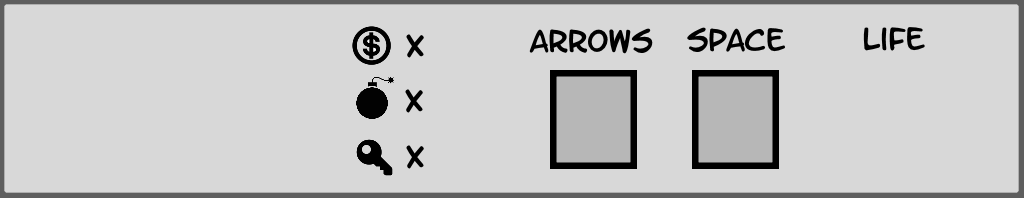
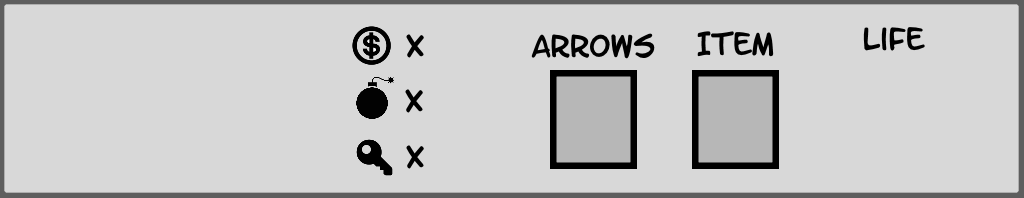
Add files via upload

Changed region(s): [[0.5, 0.1212, 0.7812, 0.303]]

diff --git a/thingsthatmove/Player.java b/thingsthatmove/Player.java
@@ -207,6 +207,13 @@ public class Player extends MoveableObject
 	{
 		return currentItem.getName();
 	}
+	
+	public boolean hasItem ()
+	{
+		if (currentItem != null)
+			return true;
+		return false;
+	}
 
 	/**
 	 * Sets the players current item to the given item or null if there is no item
@@ -260,6 +267,22 @@ public class Player extends MoveableObject
 		return movingWest;
 	}
 
+	public void updateProjectiles ()
+	{
+		// Update projectiles
+		int removedProjectiles = 0;
+		for (int i = 0; i < currentProjectiles.size(); ++i)
+		{
+			Projectile p = currentProjectiles.get(i - removedProjectiles);
+			p.update();
+			if (p.isDeadProjectile())
+			{
+				currentProjectiles.remove(i - removedProjectiles);
+				++removedProjectiles;
+			}
+		}
+	}
+	
 	public void update(ArrayList<GameObject> rocks)
 	{
 		if (movingNorth && !collidesWithRocks(rocks))
@@ -295,18 +318,7 @@ public class Player extends MoveableObject
 			}
 		}
 
-		// Update projectiles
-		int removedProjectiles = 0;
-		for (int i = 0; i < currentProjectiles.size(); ++i)
-		{
-			Projectile p = currentProjectiles.get(i - removedProjectiles);
-			p.update();
-			if (p.isDeadProjectile())
-			{
-				currentProjectiles.remove(i - removedProjectiles);
-				++removedProjectiles;
-			}
-		}
+
 
 		if (isShooting)
 		{
@@ -396,6 +408,10 @@ public class Player extends MoveableObject
 			else
 				g.drawImage(emptyHeart, 820 + 30 * n, 70, null);
 		}
+		
+		// Draw the item in the HUD
+		if (hasItem())
+			g.drawImage(currentItem.getImage(), 720, 80, null);
 
 		// Draw all projectiles currently on the screen
 		for (Projectile p : currentProjectiles)

diff --git a/thingsthatmove/EnemyStudentCluster.java b/thingsthatmove/EnemyStudentCluster.java
@@ -13,6 +13,6 @@ public class EnemyStudentCluster extends Enemy
 	public EnemyStudentCluster () throws IOException
 	{
 		super (new Enemy(1, 2, 200, 400, 400, ImageIO.read(LevelManager.class.getResourceAsStream("/images/enemies/studentclusterfront.png")),
-                new Dimension(119, 80), 2, true, false, new Dimension(60, 15), 28, 118));
+                new Dimension(90, 47), 2, true, false, new Dimension(46, 10), 20, 88));
 	}
 }

diff --git a/thingsthatmove/EnemyTextbook.java b/thingsthatmove/EnemyTextbook.java
@@ -13,6 +13,6 @@ public class EnemyTextbook extends Enemy
 	public EnemyTextbook () throws IOException
 	{
 		super (new Enemy(1, 2, 200, 400, 400, ImageIO.read(LevelManager.class.getResourceAsStream("/images/enemies/textbookfront.png")),
-                new Dimension(75, 43), 2, true, false, new Dimension(50, 55), 13, 110));
+                new Dimension(65, 47), 2, true, false, new Dimension(48, 10), 9, 84));
 	}
 }

diff --git a/thingsthatmove/EnemyEinstein.java b/thingsthatmove/EnemyEinstein.java
@@ -13,6 +13,6 @@ public class EnemyEinstein extends Enemy
 	public EnemyEinstein () throws IOException
 	{
 		super (new Enemy(1, 2, 200, 400, 400, ImageIO.read(LevelManager.class.getResourceAsStream("/images/enemies/einsteinfront.png")),
-                new Dimension(135, 85), 2, true, true, new Dimension(60, 15), 36, 116));
+                new Dimension(72, 34), 2, true, true, new Dimension(33, 7), 18, 63));
 	}
 }

diff --git a/thingsthatmove/EnemyMolecule.java b/thingsthatmove/EnemyMolecule.java
@@ -13,6 +13,6 @@ public class EnemyMolecule extends Enemy
 	public EnemyMolecule () throws IOException
 	{
 		super (new Enemy(1, 2, 200, 400, 400, ImageIO.read(LevelManager.class.getResourceAsStream("/images/enemies/moleculefront.png")),
-                new Dimension(94, 80), 2, true, false, new Dimension(60, 15), 16, 92));
+                new Dimension(67, 36), 2, true, false, new Dimension(43, 9), 11, 65));
 	}
 }

diff --git a/thingsthatmove/EnemyEclipse.java b/thingsthatmove/EnemyEclipse.java
@@ -13,6 +13,6 @@ public class EnemyEclipse extends Enemy
 	public EnemyEclipse () throws IOException
 	{
 		super (new Enemy(1, 2, 200, 400, 400, ImageIO.read(LevelManager.class.getResourceAsStream("/images/enemies/eclipsefront.png")),
-                new Dimension(77, 55), 2, true, false,  new Dimension(60, 15), 10, 77));
+                new Dimension(64, 35), 2, true, false,  new Dimension(43, 9), 7, 63));
 	}
 }

diff --git a/thingsthatmove/EnemyStudent.java b/thingsthatmove/EnemyStudent.java
@@ -13,6 +13,6 @@ public class EnemyStudent extends Enemy
 	public EnemyStudent () throws IOException
 	{
 		super (new Enemy(1, 2, 200, 400, 400, ImageIO.read(LevelManager.class.getResourceAsStream("/images/enemies/studentfront.png")),
-                new Dimension(77, 65), 2, true, false, new Dimension(60, 15), 10, 85));
+                new Dimension(60, 37), 2, true, false, new Dimension(49, 10), 7, 67));
 	}
 }

diff --git a/thingsthatmove/EnemyChem.java b/thingsthatmove/EnemyChem.java
@@ -13,6 +13,6 @@ public class EnemyChem extends Enemy
 	public EnemyChem () throws IOException
 	{
 		super (new Enemy(1, 2, 200, 400, 400, ImageIO.read(LevelManager.class.getResourceAsStream("/images/enemies/chemfront.png")),
-                new Dimension(72, 75), 2, true, false, new Dimension(60, 15), 5, 98));
+                new Dimension(57, 43), 2, true, false, new Dimension(48, 10), 3, 78));
 	}
 }

diff --git a/thingsthatmove/EnemyCell.java b/thingsthatmove/EnemyCell.java
@@ -12,6 +12,6 @@ public class EnemyCell extends Enemy
 	public EnemyCell () throws IOException
 	{
 		super (new Enemy(1, 2, 200, 400, 400, ImageIO.read(LevelManager.class.getResourceAsStream("/images/enemies/cellfront.png")),
-                new Dimension(79, 70), 2, true, true, new Dimension(60, 15), 10, 78));
+                new Dimension(67, 38), 2, true, true, new Dimension(51, 11), 7, 67));
 	}
 }

diff --git a/thingsthatmove/EnemyPi.java b/thingsthatmove/EnemyPi.java
@@ -13,6 +13,6 @@ public class EnemyPi extends Enemy
 	public EnemyPi () throws IOException
 	{
 		super (new Enemy(1, 2, 200, 400, 400, ImageIO.read(LevelManager.class.getResourceAsStream("/images/enemies/pifront.png")),
-                new Dimension(75, 43), 2, true, false, new Dimension(50, 55), 29, 88));
+                new Dimension(86, 36), 2, true, false, new Dimension(44, 10), 20, 65));
 	}
 }

diff --git a/thingsthatmove/Enemy.java b/thingsthatmove/Enemy.java
@@ -81,7 +81,6 @@ public class Enemy extends MoveableObject
 
 	public void draw(Graphics g)
 	{
-		updateProjectiles();
 		// Draw their set of projectiles
 		for (int n = 0; n < currentProjectiles.size(); n++)
 		{
